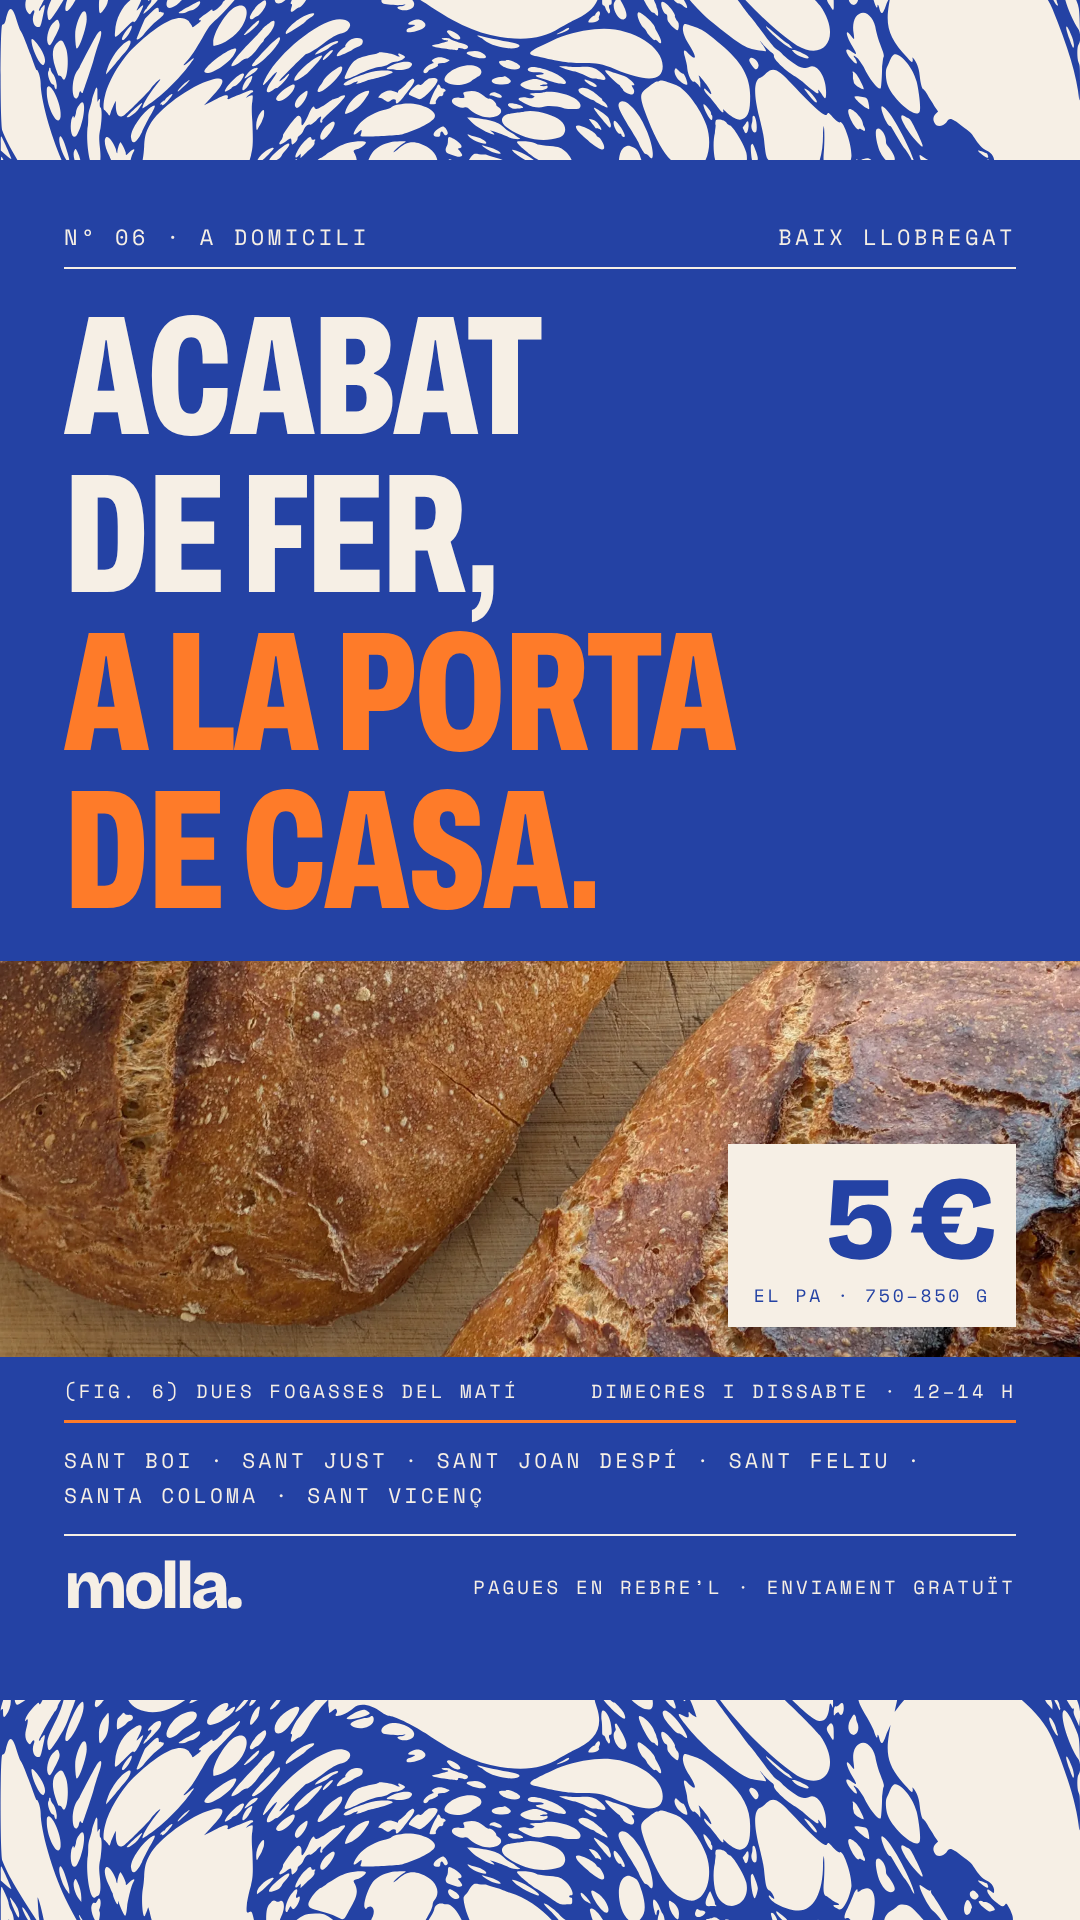
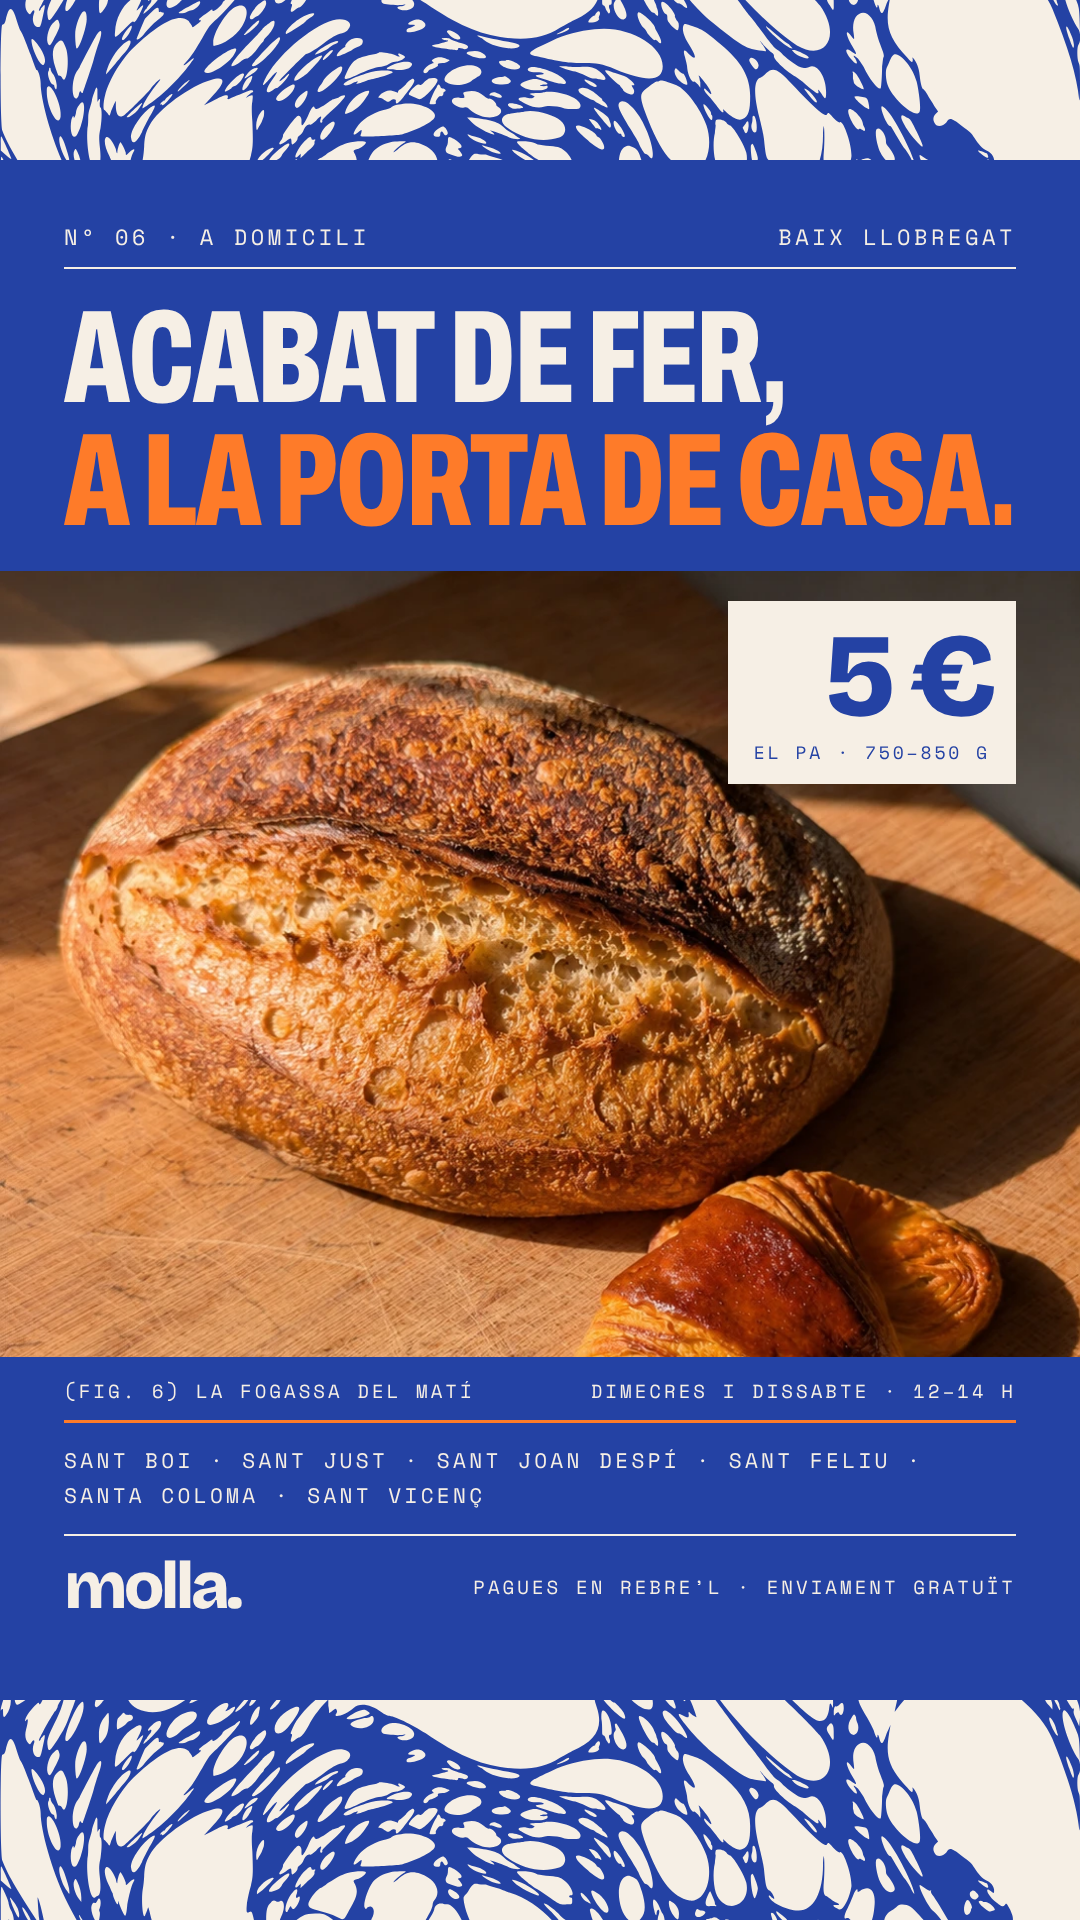
Ad kit: 'porta' shows the whole loaf on the board
The El desayuno photo (the baker's own, a whole uncut loaf on a wooden
board), framed so the full loaf fits: headline on two lines, the portrait
source at full width, the price tag moved to the top right.

Claude-Session: https://claude.ai/code/session_01QaVtpyuSr4Qa6tD1xtCdvu

diff --git a/exports/anuncis/textos.md b/exports/anuncis/textos.md
@@ -9,7 +9,7 @@
 | `hores`    | «35 hores» sobre el patrón de miga con su marco de texto | Patrón de miga (vector)      |
 | `obrador`  | «Fet per algú del barri.»                                | El panadero en el obrador    |
 | `carta`    | La carta con precios                                     | Banana bread                 |
-| `porta`    | «Acabat de fer, a la porta de casa.», 5 € y los 6 municipios | Dos hogazas de corteza oscura |
+| `porta`    | «Acabat de fer, a la porta de casa.», 5 € y los 6 municipios | Hogaza entera sobre la tabla |
 | `veins`    | «Ho diuen els veïns.», 5/5 en Google y dos reseñas reales | Hogaza abierta, la miga       |
 | `whatsapp` | «Escriu-me. Te’l porto.» con un pedido de ejemplo por chat | El panadero oliendo el pan    |
 
